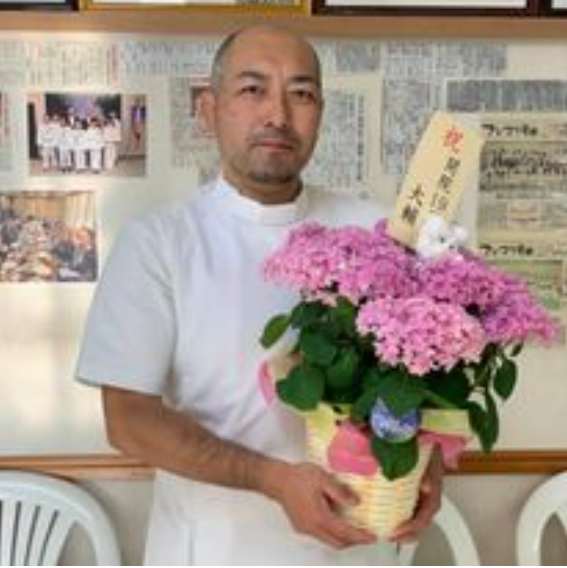
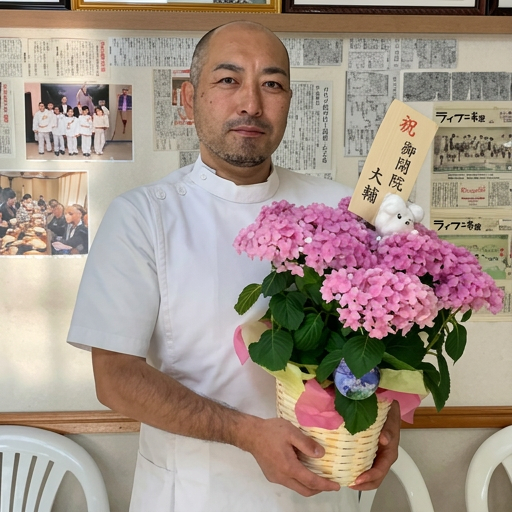
Animate hero text as blur-rise and photo as drop-in; swap director photo
Claude-Session: https://claude.ai/code/session_01EfpAbyALTLgQLm1ZD5A8ZB

diff --git a/maruya-sekkotsu.html b/maruya-sekkotsu.html
@@ -49,30 +49,43 @@
   .hero-right{
     flex:1 1 50%;position:relative;min-height:84vh;overflow:hidden;background:#0d1f17;
   }
+  .hero-right .imgwrap{
+    position:absolute;inset:0;overflow:hidden;
+    opacity:0;animation:dropIn 1.1s cubic-bezier(.2,.75,.3,1) forwards 2.5s;
+  }
   .hero-right img{
     position:absolute;inset:0;width:100%;height:100%;object-fit:cover;object-position:top center;
-    transform:scale(1.04);animation:kenburns 18s ease-in-out infinite alternate;
+    transform:scale(1.04);animation:kenburns 18s ease-in-out infinite alternate 3.6s;
   }
   .hero-right::after{
-    content:"";position:absolute;inset:0;
+    content:"";position:absolute;inset:0;z-index:1;
     background:linear-gradient(90deg,rgba(13,31,23,.35),transparent 30%);
+  }
+  @keyframes dropIn{
+    0%{opacity:0;transform:translateY(-60px) scale(1.02);}
+    60%{opacity:1;}
+    100%{opacity:1;transform:translateY(0) scale(1);}
   }
   @keyframes kenburns{from{transform:scale(1.04);}to{transform:scale(1.12);}}
   .hero-left .eyebrow{
     color:var(--green);font-size:12px;letter-spacing:.2em;font-weight:700;margin-bottom:18px;
-    opacity:0;animation:riseIn .9s ease forwards 2.5s;
+    opacity:0;filter:blur(6px);animation:riseIn 1.1s ease forwards 2.5s;
   }
   .hero-left h1{
     font-size:clamp(34px,5vw,58px);line-height:1.35;color:var(--text);margin:0 0 24px;font-weight:800;
-    opacity:0;animation:riseIn .9s ease forwards 2.7s;
   }
-  .hero-left h1 span{display:block;}
+  .hero-left h1 span{display:block;opacity:0;filter:blur(6px);animation:riseIn 1.1s ease forwards;}
+  .hero-left h1 span:nth-child(1){animation-delay:2.75s;}
+  .hero-left h1 span:nth-child(2){animation-delay:2.95s;}
   .hero-left h1 .accent{color:var(--green);}
   .hero-left p{
     color:var(--muted);font-size:15px;line-height:1.9;margin:0;max-width:440px;
-    opacity:0;animation:riseIn .9s ease forwards 3s;
+    opacity:0;filter:blur(6px);animation:riseIn 1.1s ease forwards 3.25s;
   }
-  @keyframes riseIn{from{opacity:0;transform:translateY(18px);}to{opacity:1;transform:translateY(0);}}
+  @keyframes riseIn{
+    0%{opacity:0;filter:blur(6px);transform:translateY(26px);}
+    100%{opacity:1;filter:blur(0);transform:translateY(0);}
+  }
 
   /* ---- floating quick menu ---- */
   .quickmenu{
@@ -139,7 +152,7 @@
       <p>捻挫・打撲・筋損傷（肉離れ）・骨折・脱臼の施術から、酸素カプセルによる疲労回復、助産師監修の産後ケアまで。お子さまからご年配の方まで、安心して通える接骨院を目指しています。</p>
     </div>
     <div class="hero-right">
-      <img src="assets/director.png" alt="まるや接骨院 院長">
+      <div class="imgwrap"><img src="assets/director.png" alt="まるや接骨院 院長"></div>
     </div>
     <div class="quickmenu">
       <h2>クイックメニュー <span>▾</span></h2>
